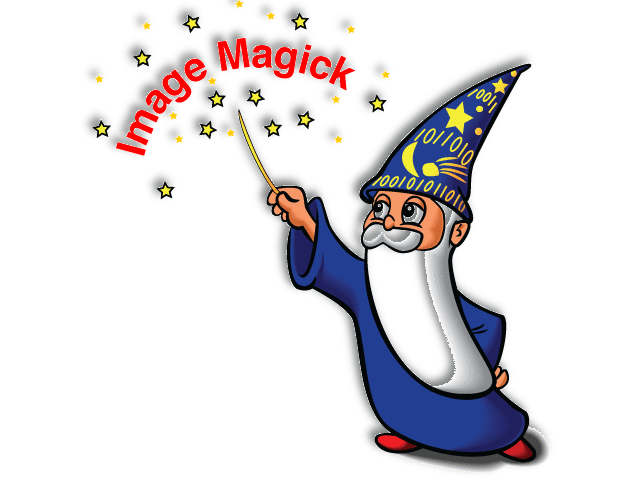
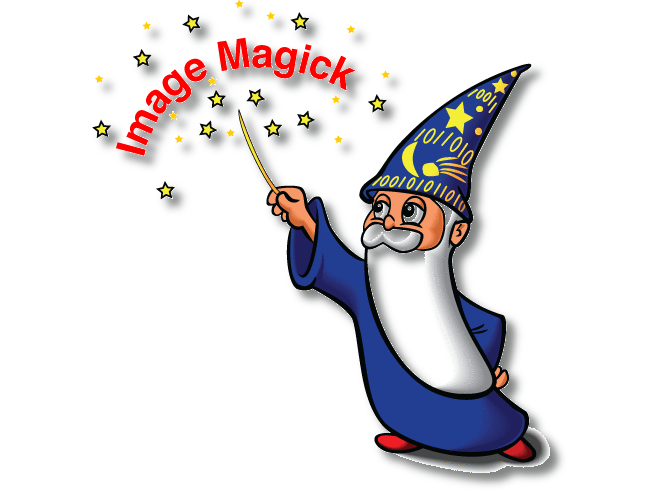
[feat] shadow

Changed region(s): [[0.1244, 0.0, 0.8709, 0.9938], [0.2177, 0.3727, 0.2799, 0.4348], [0.1244, 0.1242, 0.1866, 0.1863]]

diff --git a/0600_shadow.rb b/0600_shadow.rb
@@ -1,15 +1,40 @@
 require "./setup"
 
-layer = Image.new(400, 400) { |e| e.background_color = "transparent" }
+# layer = Image.new(400, 400) { |e| e.background_color = "transparent" }
+#
+# gc = Draw.new
+# gc.fill("white")
+# gc.circle(200, 200, 250, 200)
+# gc.draw(layer)
+#
+# # 全部同じ？
+# d layer.shadow(-20, -20, 5, 1.0).composite(layer, 0, 0, OverCompositeOp)
+# d layer.shadow(  0,   0, 5, 1.0).composite(layer, 0, 0, OverCompositeOp)
+# d layer.shadow(-10,  10, 5, 1.0).composite(layer, 0, 0, OverCompositeOp)
+# d layer.shadow(-20,  20, 5, 1.0).composite(layer, 0, 0, OverCompositeOp)
+# d layer.shadow(-30,  30, 5, 1.0).composite(layer, 0, 0, OverCompositeOp)
 
+# 本家のサンプル
+
+# Draw a big red Bezier curve on a transparent background.
+layer = Image.new(400, 400) { |e| e.background_color = 'none' }
 gc = Draw.new
 gc.fill("white")
 gc.circle(200, 200, 250, 200)
 gc.draw(layer)
 
-# 全部同じ？
-d layer.shadow(-20, -20, 5, 1.0).composite(layer, 0, 0, OverCompositeOp)
-d layer.shadow(  0,   0, 5, 1.0).composite(layer, 0, 0, OverCompositeOp)
-d layer.shadow(-10,  10, 5, 1.0).composite(layer, 0, 0, OverCompositeOp)
-d layer.shadow(-20,  20, 5, 1.0).composite(layer, 0, 0, OverCompositeOp)
-d layer.shadow(-30,  30, 5, 1.0).composite(layer, 0, 0, OverCompositeOp)
+d layer
+
+# Create the shadow.
+shadow = layer.shadow(-50, -50)
+shadow # => /Users/ikeda/src/rmagick-examples/_tmp/20211003220700_-_f365188e7438147a201eed2a103edfad.png  416x416 358x358+-58+-58 DirectClass 16-bit
+d shadow
+
+image_list = ImageList.new
+image_list.new_image(layer.columns, layer.rows, SolidFill.new('white'))
+image_list << shadow
+image_list << layer
+d image_list.flatten_images
+# >> /Users/ikeda/src/rmagick-examples/_tmp/20211003220700_-_f365188e7438147a201eed2a103edfad.png
+# >> /Users/ikeda/src/rmagick-examples/_tmp/20211003220701_-_df93a4a151ba6c4f739f5a3eae94b611.png
+# >> /Users/ikeda/src/rmagick-examples/_tmp/20211003220701_-_5dfc377134ae61d5926670ef8c626e4d.png

diff --git a/issue/test3.rb b/issue/test3.rb
@@ -1,0 +1,34 @@
+# require "./setup"
+
+require "bundler/inline"
+
+gemfile do
+  source "https://rubygems.org"
+  gem "rmagick"
+end
+
+require "rmagick"
+require "rmagick/version"
+include Magick
+
+VERSION        # => "4.2.2"
+Magick_version # => "ImageMagick 7.1.0-5 Q16 x86_64 2021-08-22 https://imagemagick.org"
+
+image1 = Image.read("logo:").first.transparent("white")
+shadow1 = image1.shadow(-5, -5, 4, "50%") # -shadow 50x4-5-5
+shadow1.write("shadow1.png")
+
+if false
+  # Wrong synthesis method
+  image1 = shadow1.composite(image1, 0, 0, OverCompositeOp)
+  canvas = Image.new(image1.columns, image1.rows) { |e| e.background_color = "white" }
+  canvas.composite!(image1, 0, 0, OverCompositeOp)
+  canvas.write("output2.png")
+end
+
+# Correct synthesis method
+image_list = ImageList.new
+image_list.new_image(image1.columns, image1.rows, SolidFill.new("white"))
+image_list << shadow1
+image_list << image1
+image_list.flatten_images.write("output2.png")

diff --git a/0200_グレースケールをPNG24で保存する唯一の方法.rb b/0200_グレースケールをPNG24で保存する唯一の方法.rb
@@ -1,0 +1,15 @@
+require "./setup"
+
+# ↓によると PNG24: を書くほかないらしい
+# http://ja.uwenku.com/question/p-eumifvol-hn.html
+
+# 失敗。SRGBColorspace を指定しても意味ない
+layer = Image.new(32, 32) do |e|
+  e.colorspace = Magick::SRGBColorspace
+end
+layer.write("_output1.png")
+`exiftool _output1.png | grep 'Color Type'`.strip.sub(/.*:\s*/, "") # => "Grayscale"
+
+layer.write("PNG24:_output1.png")
+`exiftool _output1.png | grep 'Color Type'`.strip.sub(/.*:\s*/, "") # => "RGB"
+
